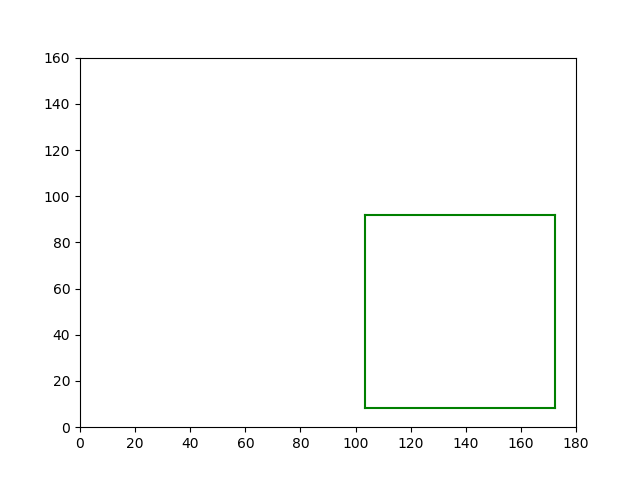
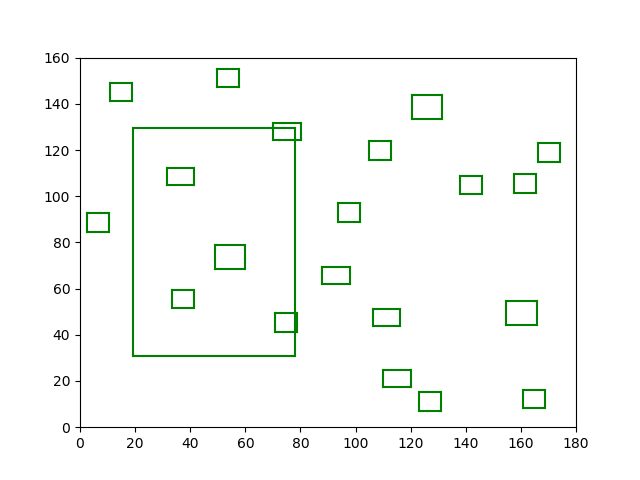
water in map

diff --git a/Classes/map.py b/Classes/map.py
@@ -15,6 +15,7 @@ for i in range(len(list_dir) - 1):
 sys.path.insert(0, string)
 
 import random
+import numpy
 from Classes.house import *
 from Classes.water import *
 from Characteristics.Amstelhaege import *
@@ -63,16 +64,11 @@ class Map(object):
 			if house.freespace < house.min_free:
 				del self.houses[len(self.houses) - 1]
 				return False
-			if house.corners['lb']['y'] < self.water.corners['lo']['y'] & \
-			   house.corners['lo']['x'] > self.water.corners['ro']['x'] & \
-			   house.corners['lo']['y'] > self.water.corners['lb']['y'] & \
-			   house.corners['ro']['x'] < self.water.corners['lo']['x']:
-				del self.houses[len(self.houses) - 1]
-				return False
+
 
 		return True
 
-	def place_water(self, loc, water_id):
+	def place_water(self, water_id):
 		'''Places water on the map
 
 		Input arguments:
@@ -84,31 +80,36 @@ class Map(object):
 		allowed = False
 		tmp_list = []
 
+        # place number of water bodies
 		for i in range(nr_water):
 
+            # create random x and y for water body
 			while allowed == False:
-				x = (random.uniform(0, (self.water_prev * self.width * self.height))) / nr_water
-				y = ((self.water_prev * self.width * self.height) / x) / nr_water
+				x = random.uniform((numpy.sqrt(self.water_prev * self.width * self.height / 4)), \
+					numpy.sqrt(self.water_prev * self.width * self.height)) / nr_water
 
-				# check if ratio is correct
+				y = ((self.water_prev * self.width * self.height) / x) / nr_water
 
 				size = {'width': x, 'height': y}
 
 				self_id = i
 
-				new_water = Water(loc, self_id, size)
+				new_water = Water(self_id, size)
 
 				tmp_list.append(new_water)
 
-                # check if corners locations exceed the map
+                # check if corners locations exceed the map and check if ratio is correct
 				if ((x / y) > 0.25) & ((x / y) < 4):
 					for water in tmp_list:
+						print(water.location)
 						if water.corners['lo']['x'] > 0 and water.corners['lo']['y'] > 0 \
 						and water.corners['lb']['x'] > 0 and water.corners['lb']['y'] < self.height \
 						and water.corners['ro']['x'] < self.width and water.corners['ro']['y'] > 0 \
 						and water.corners['rb']['x'] < self.width and water.corners['rb']['y'] < self.height:
+                            # only store last water body
 							self.water = tmp_list[-1]
 							allowed = True
+
 
 	def calc_freespace_on_map(self, new_house):
 		'''Calculating location with the most freespace on map.

diff --git a/Classes/water.py b/Classes/water.py
@@ -4,26 +4,31 @@
 # Group:        726567756982776978
 # Members:      Toon van Holthe, Raoul Lieben, Luc Stefelmanns
 
+import random
+from Classes.map import *
+from Characteristics.Amstelhaege import *
+
 class Water(object):
 	'''Class for water object.'''
 
-	def __init__(self, loc, self_id, size):
+	def __init__(self, self_id, size):
 		'''Class is list of coordinates on where the water is placed.
 
 		Input arguments:
 		loc -- location where water is placed
 		'''
 
-		self.location = loc
 		self.self_id = self_id
 		self.width = size['width']
 		self.height = size['height']
+		self.location = self.create_location()
 		self.corners = self.find_corners()
 
 
 	def find_corners(self):
 		'''Calculates coordinates of corners. '''
 
+		print (self.location)
 		lb = {'x' : (self.location['x'] - 0.5 * self.width),
 			  'y' : (self.location['y'] + 0.5 * self.height)}
 
@@ -37,3 +42,13 @@ class Water(object):
 			  'y' : (self.location['y'] - 0.5 * self.height)}
 
 		return {'lb' : lb, 'rb': rb, 'lo': lo, 'ro': ro}
+
+	def create_location(self):
+		'''generates location for water bodies '''
+
+		loc = {'x' : random.uniform((0 + 0.5 * self.width), \
+				  	(MAP_20['width'] - 0.5 * self.width)), \
+			   'y' : random.uniform((0 + 0.5 * self.height), \
+		  			(MAP_20['height'] - 0.5 * self.height))}
+
+		return loc

diff --git a/Running_Scripts/test.py b/Running_Scripts/test.py
@@ -1,15 +1,8 @@
 
 from __import__ import *
 
-ah_map = Map(MAP_20)
-<<<<<<< HEAD
-ah_map.place_water({'x': random.randint(0,160), 'y': random.randint(0,160)}, 1)
-=======
-ah_map.place_water({'x' : 50, 'y' : 50}, 1)
-
-scatterplot(ah_map, 'test')
-
->>>>>>> 4c1a41dc9ed370a3f00050dbeaeb7b92c313ed62
+# ah_map = Map(MAP_20)
+# ah_map.place_water({'x': random.randint(0,160), 'y': random.randint(0,160)}, 1)
 # allowed = ah_map.place_house({'x' : 50, 'y' : 50}, 1, ah_map.types[0])
 # print(allowed)
 # allowed = ah_map.place_house({'x' : 50, 'y' : 40}, 2, ah_map.types[0])
@@ -18,7 +11,7 @@ scatterplot(ah_map, 'test')
 # for house in ah_map.houses:
 # 	print(house.freespace)
 
-# ah_map = random_generator(MAP_20)
+ah_map = random_generator(MAP_20)
 #
 # fireworks(MAP_20)
 

diff --git a/Classes/house.py b/Classes/house.py
@@ -97,6 +97,13 @@ class House(object):
 		tmpfreespace.append(abs(in_map.width - x_newhouse - x_diffwall))
 		tmpfreespace.append(abs(in_map.height - y_newhouse - y_diffwall))
 
+        # check if house is not located in water
+		# if self.corners['lb']['y'] > in_map.water.corners['lo']['y'] or \
+		#    self.corners['lo']['x'] < in_map.water.corners['ro']['x'] or \
+		#    self.corners['lo']['y'] < in_map.water.corners['lb']['y'] or \
+		#    self.corners['ro']['x'] > in_map.water.corners['lo']['x']:
+		#    	return False
+
 		# iterate over all houses in map
 		for house in in_map.houses:
 

diff --git a/Algorithms/helpers.py b/Algorithms/helpers.py
@@ -7,6 +7,11 @@ def random_generator(map_charac):
 
 	out_map = Map(map_charac)
 	i = 2
+
+	out_map.place_water(i)
+
+	print(out_map.water)
+
 	for k in range(len(out_map.distr_houses)):
 
 		nr_of_type = out_map.nr_houses * out_map.distr_houses[i]
